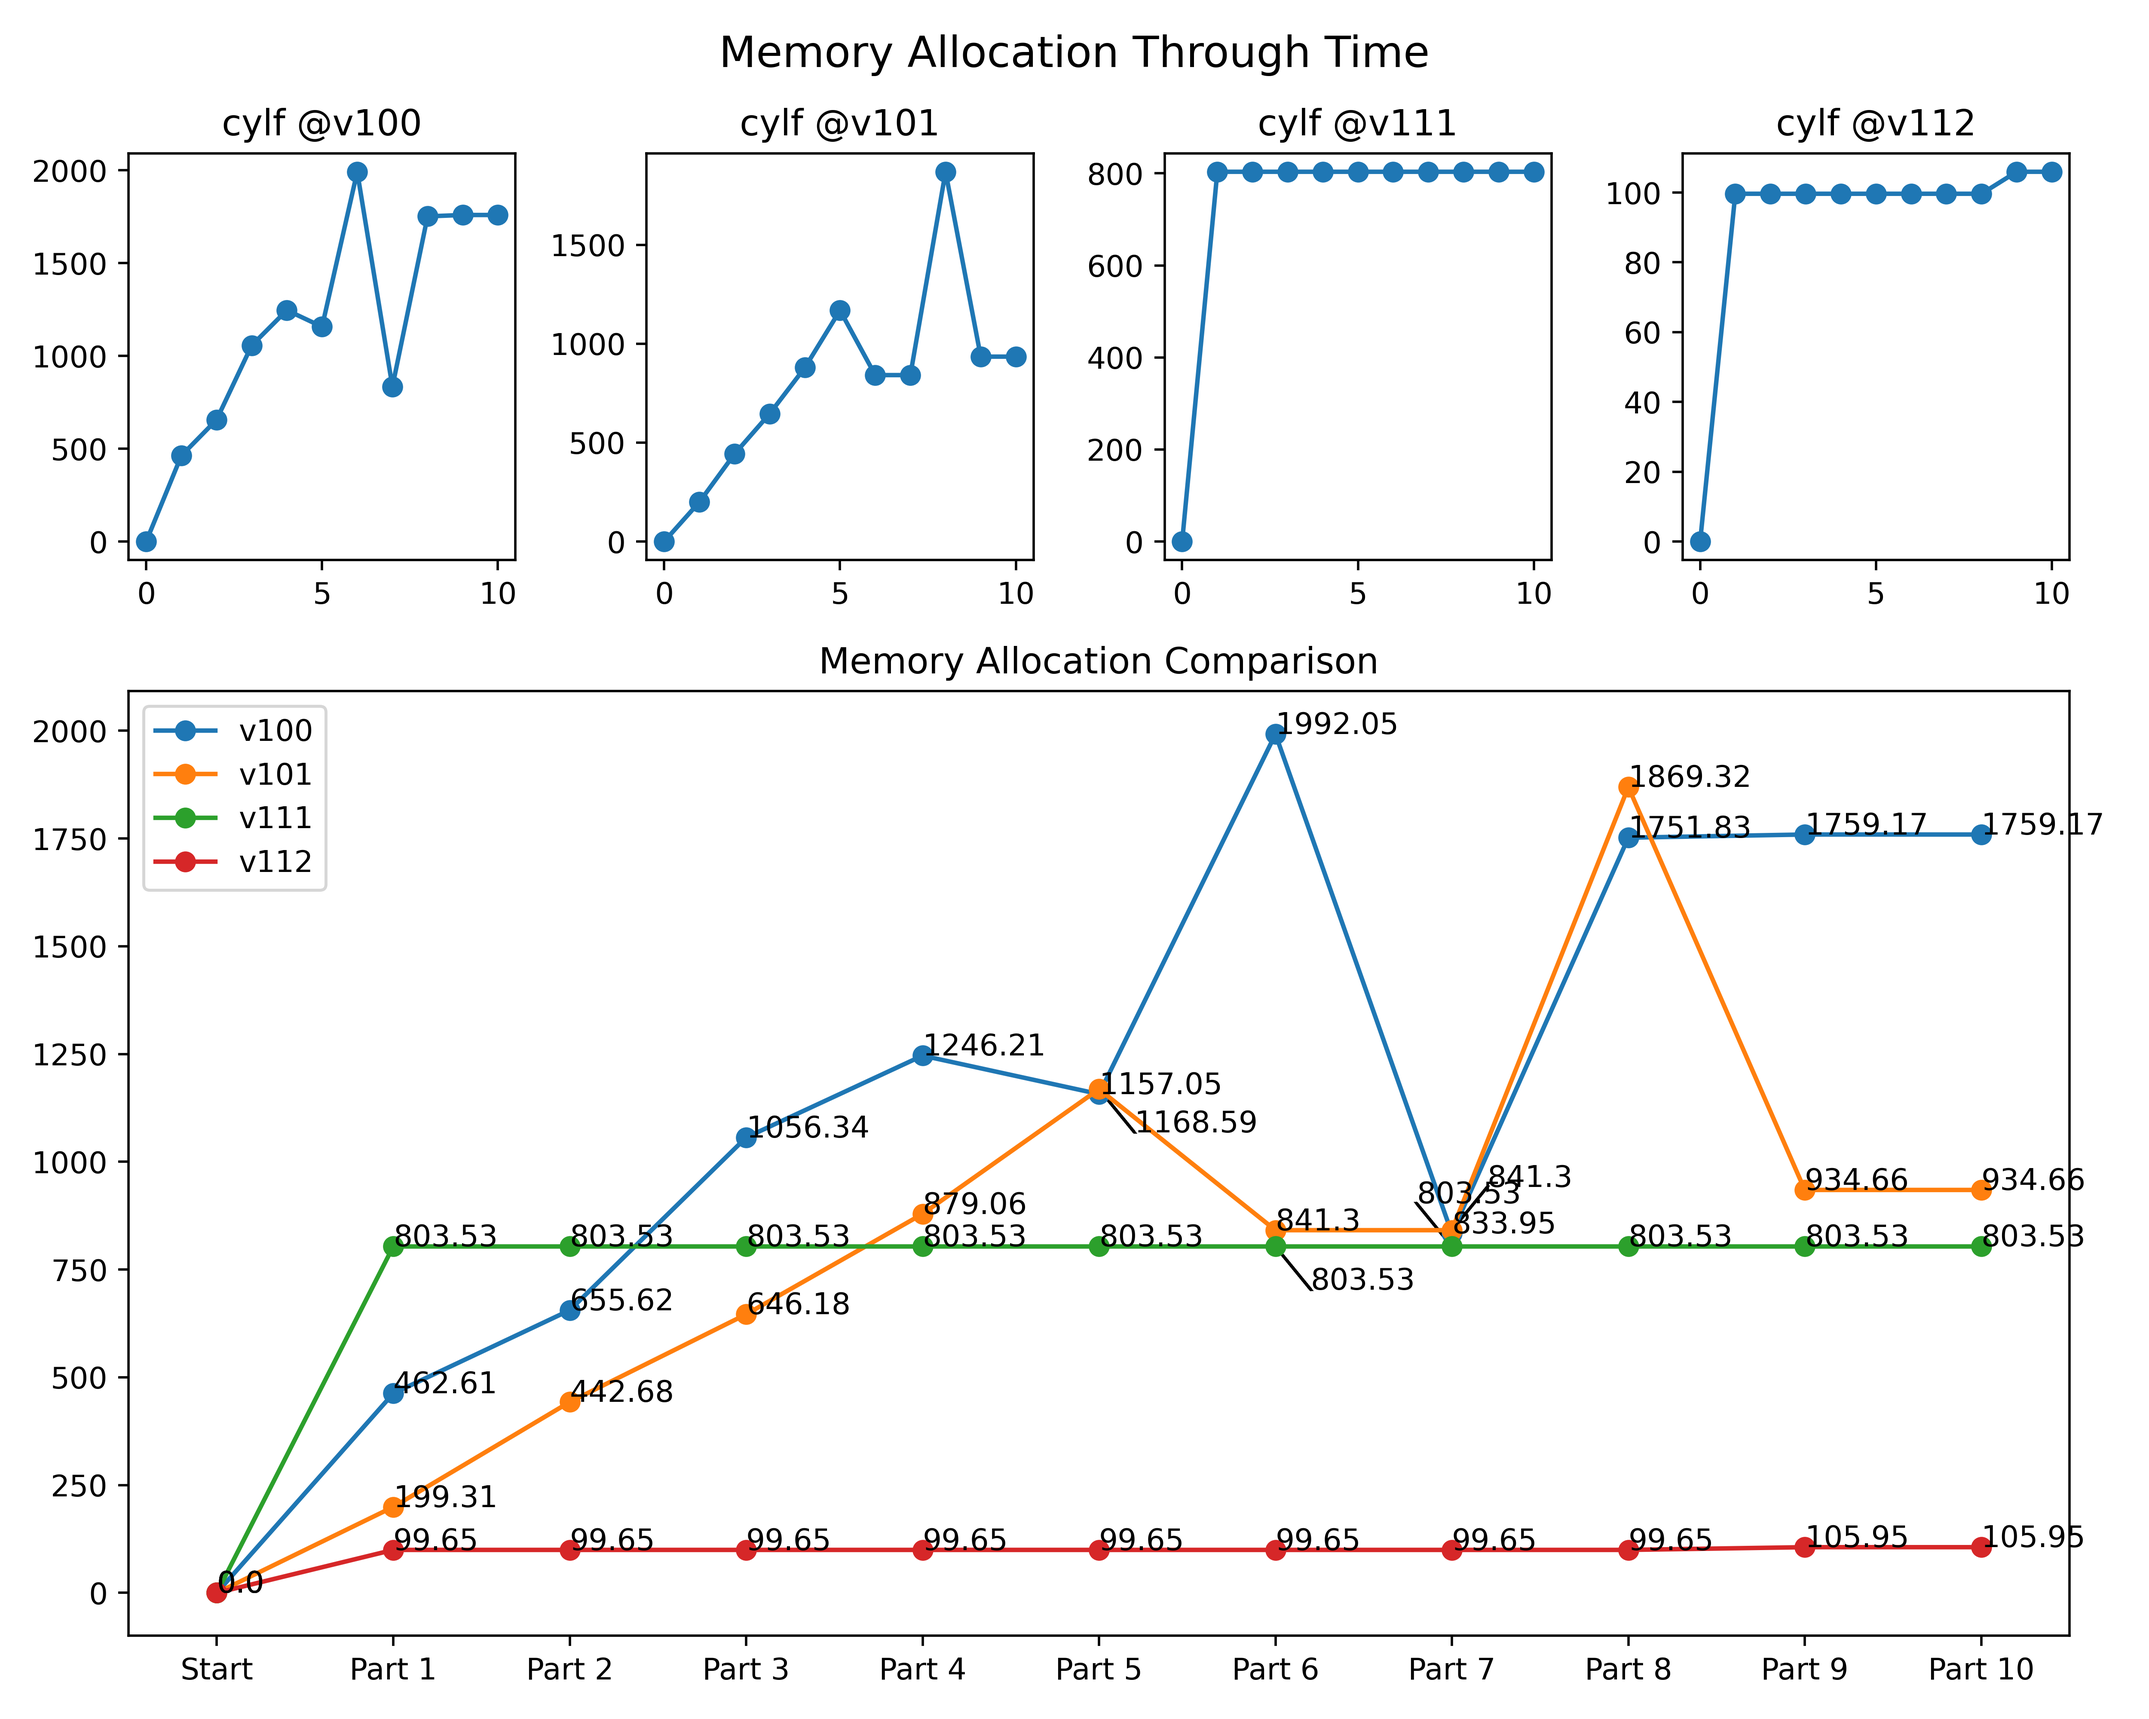
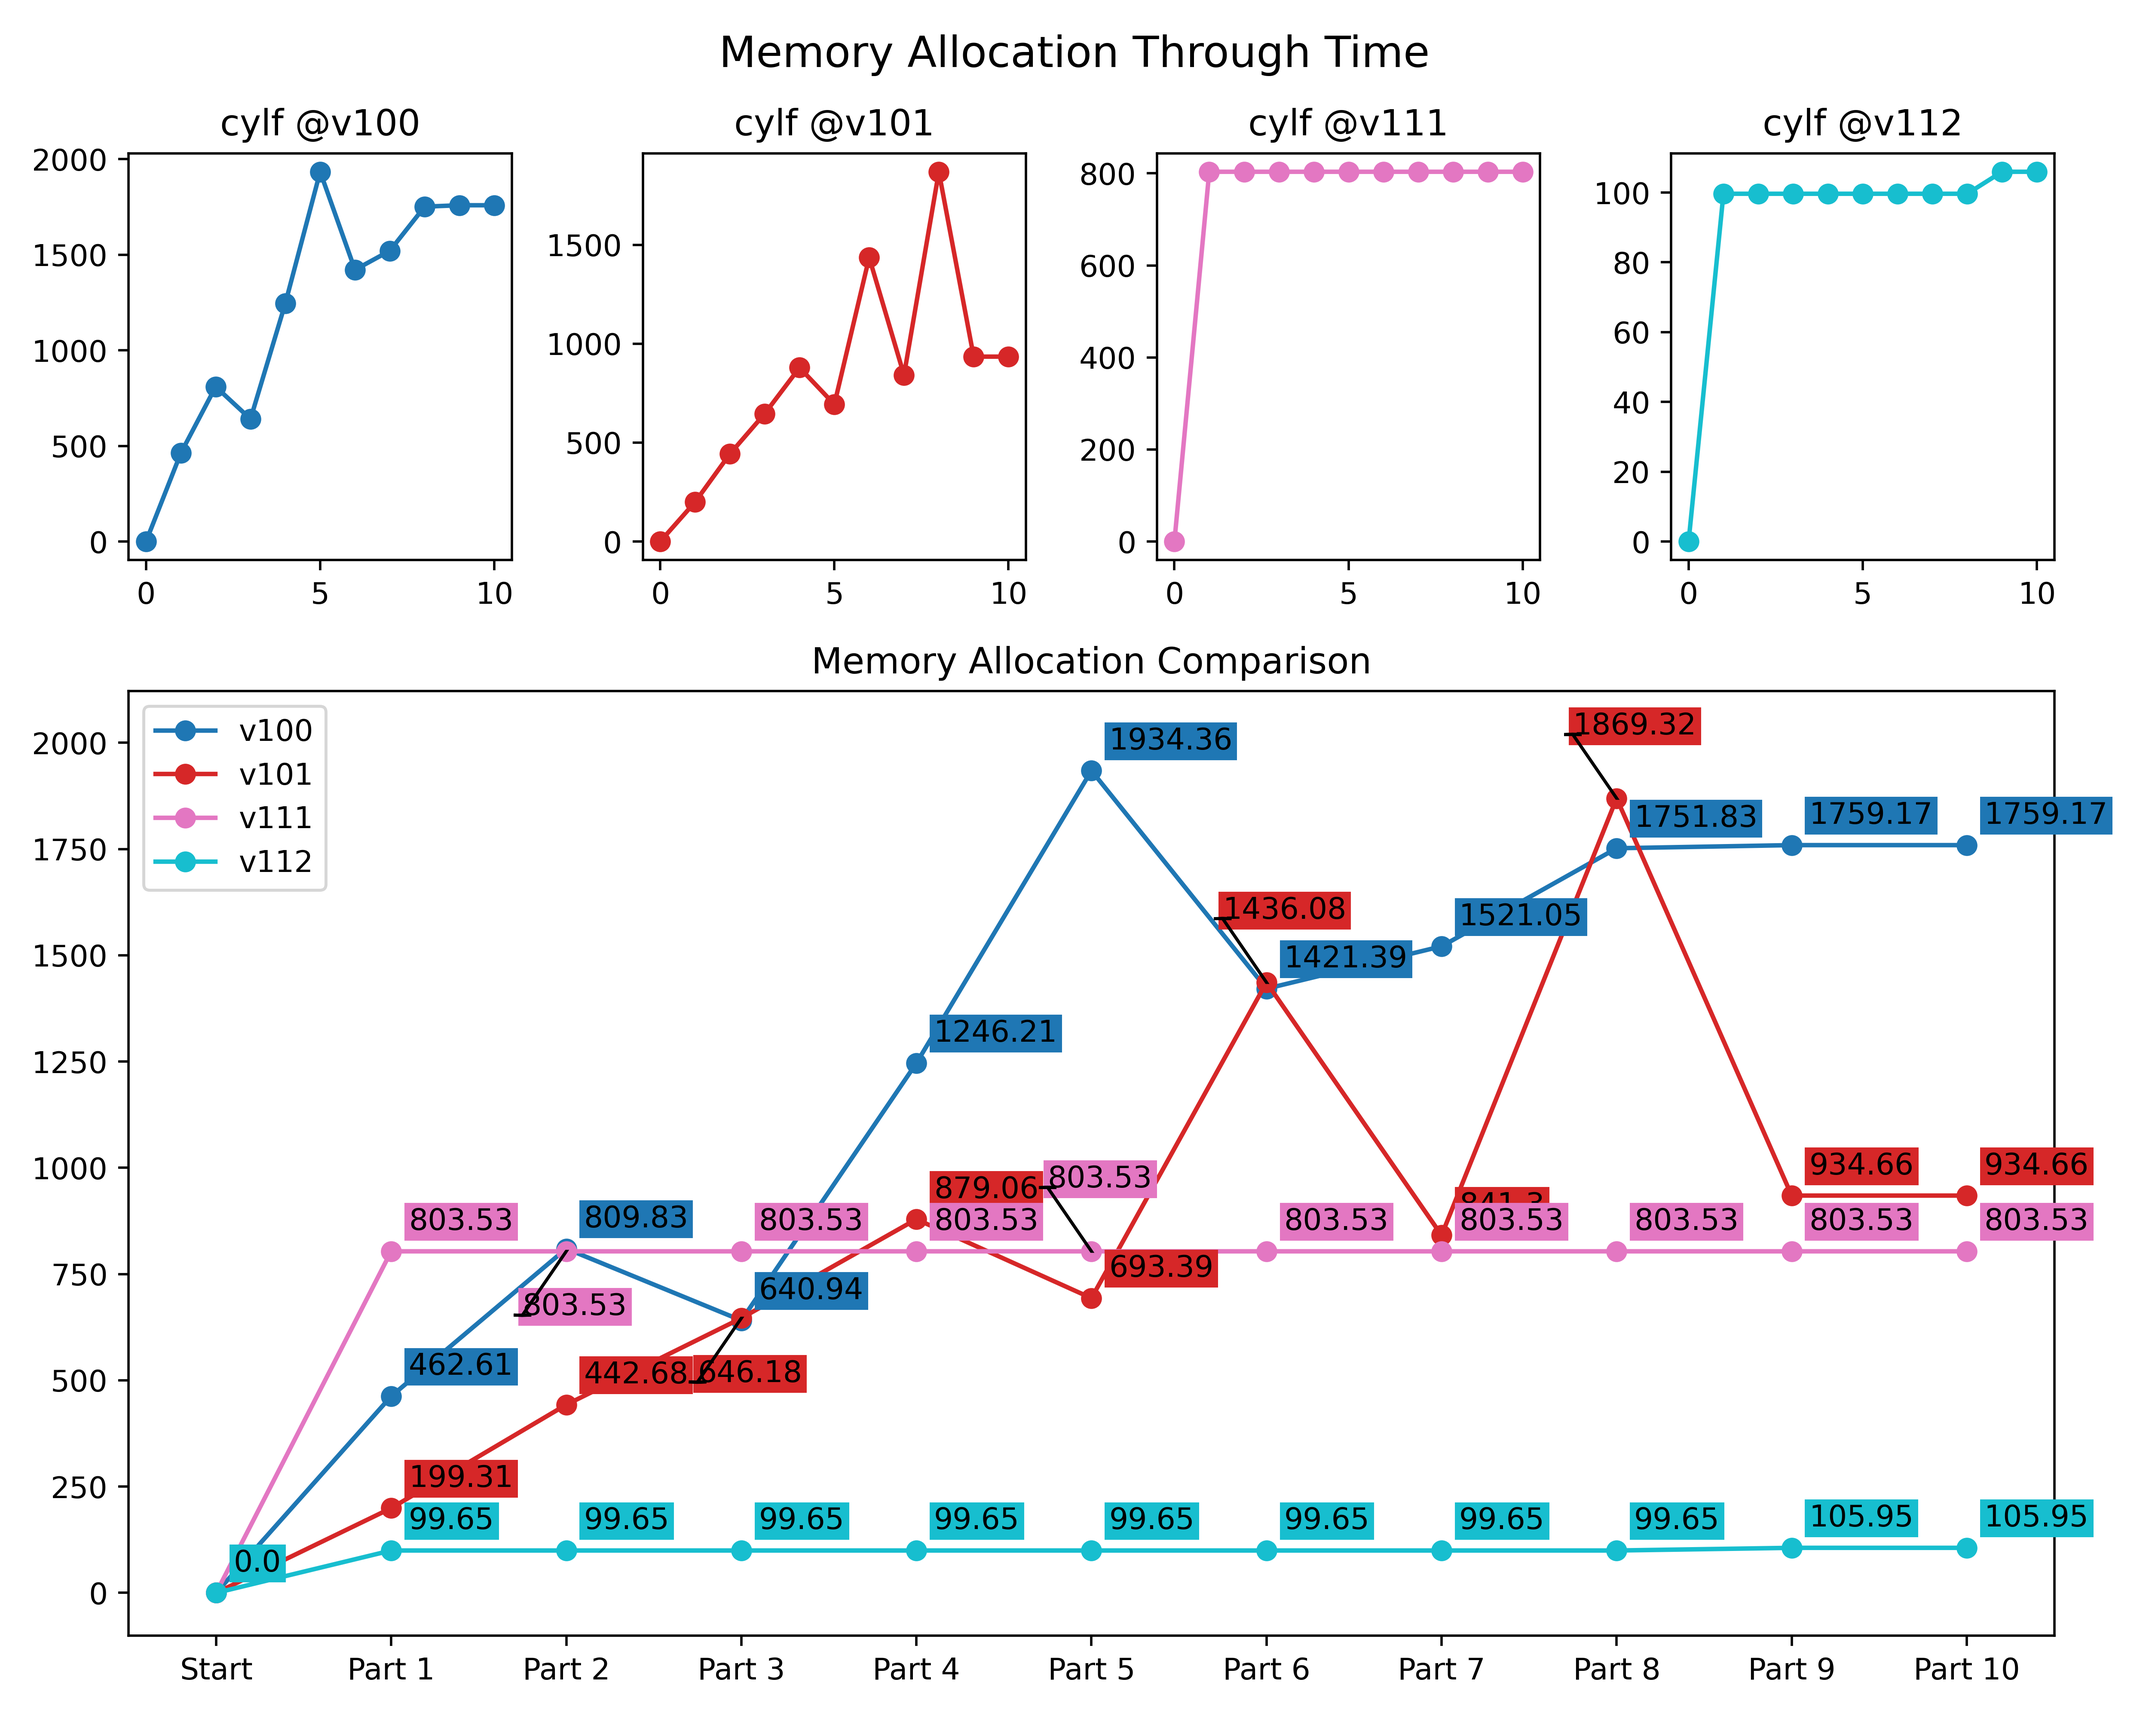
update: images done, added len and cap img

diff --git a/benchmarks/gen-data.py b/benchmarks/gen-data.py
@@ -1,4 +1,5 @@
 import matplotlib.pyplot as plt
+from matplotlib import cm # color map
 import os
 import re
 import random
@@ -8,12 +9,12 @@ def check_distances(x, y, text_pos):
     for pt in text_pos:
         dx = abs(pt[0]-x)
         dy = abs(pt[1]-y)
-        if dx < 0.3 and dy < 50 and x > 0.0:
+        if dx < 0.3 and dy < 70 and x > 0.0:
             rnx = random.randint(1, 3)
             rny = random.randint(1, 3)
             print(f'{x},{y} and {pt[0]},{pt[1]} {dx} {dy}')
-            return [True, [x+(-1)**(rnx)*0.2, y + (-1)**(rny)*100]]
-    return[False, [x, y]]
+            return [True, [x+(-1)**(rnx)*0.25, y + (-1)**(rny)*150]]
+    return[False, [x+0.1, y+50]]
 c = 256
 c_old = 256
 limit = 8192
@@ -91,6 +92,14 @@ ax_full = None
 x_ticks = ['Start']
 text_pos = []
 
+cmap = cm.get_cmap("tab10")
+# use a color map
+y1 = np.arange(0,len(data.keys()))
+
+# normalize 0 to 1
+color_n = y1 / max(y1)
+color_n = [cmap(c) for c in color_n]
+
 #ax2 = figs.add_subplot(grid[1, :])
 #ax3 = figs.add_subplot(grid[2, :])
 for p in range(2):
@@ -100,7 +109,7 @@ for p in range(2):
         if p == 0:
             ax = figs.add_subplot(grid[p, i])
             ax.set_title(f"cylf @{key}")
-            ax.plot(x_vals, data[key][sep], marker='o')
+            ax.plot(x_vals, data[key][sep], marker='o', color=color_n[i])
         if p == 1:
             # altogether plot
             if i == 0:
@@ -113,16 +122,16 @@ for p in range(2):
             for x, y in zip(x_vals, data[key][sep]):
                 pt = check_distances(x, y, text_pos)
                 if pt[0]:
-                    ax_full.arrow(x, y, pt[1][0]-x, pt[1][1]-y, ec ='black')
+                    ax_full.arrow(x, y, pt[1][0]-x, pt[1][1]-y, ec ='black', head_width=0.1, head_length=1, zorder=10* i)
                     #print("{0} {1} -> {2} {3}".format(x, y, pt[1][0], pt[1][1]))
-                ax_full.text(pt[1][0], pt[1][1], f'{y}')
+                ax_full.text(pt[1][0], pt[1][1], f'{y}', bbox={'facecolor': color_n[i], 'edgecolor':color_n[i], 'alpha': 1.0, 'pad': 1})
                 text_pos.append(pt[1])
-            ax_full.plot(x_vals, data[key][sep], marker='o', label=key)
+            ax_full.plot(x_vals, data[key][sep], marker='o', label=key, color=color_n[i])
             ax_full.legend()
 
 print(text_pos)
 figs.tight_layout()
-#plt.savefig('mem-plot.png', dpi=500)
+plt.savefig('mem-plot.png', dpi=500)
 plt.show()
 
 fig3 = plt.figure(figsize=(12, 3))
@@ -130,8 +139,15 @@ fig3.suptitle(f'Slice Length and Capacity', fontsize="x-large")
 grid = fig3.add_gridspec(1,len(data.keys()))
 
 offset = [-0.5, 0.5]
-width = 0.4
+width = 0.45
 
+cmap2 = cm.get_cmap("tab20")
+# use a color map
+y2 = np.arange(0,2)
+
+# normalize 0 to 1
+colors = y2 / max(y2)
+colors = [cmap2(c) for c in colors]
 
 for i in range(len(data.keys())):
     key = list(data.keys())[i]
@@ -140,7 +156,12 @@ for i in range(len(data.keys())):
     for k in range(2):
         subkeys = list(data[key].keys())[k+1]
         x_vals = list(range(len(data[key][subkeys])))
-        ax3.bar(np.array(x_vals) + (width)*(offset[k]), data[key][subkeys], width=width, label=f'{subkeys}')
+        xpos = np.array(x_vals) + (width)*(offset[k])
+        ypos = data[key][subkeys]
+        ax3.bar(xpos, ypos, width=width, label=f'{subkeys}', color=colors[k])
+        for x,y in zip(xpos, ypos):
+            if y == 0.0: continue
+            ax3.text(x-0.5, y-y/2, f'{int((y)/1000000)}', rotation=-90, color='black')
         ax3.set_xticks(x_vals)
         ax3.set_xticklabels(x_vals)
 
@@ -149,5 +170,5 @@ handles, labels = plt.gca().get_legend_handles_labels()
 by_label = dict(zip(labels, handles))
 plt.legend(by_label.values(), by_label.keys())
 fig3.tight_layout()
-#plt.savefig('factor.png', dpi=500)
+plt.savefig('len-cap.png', dpi=500)
 plt.show()
